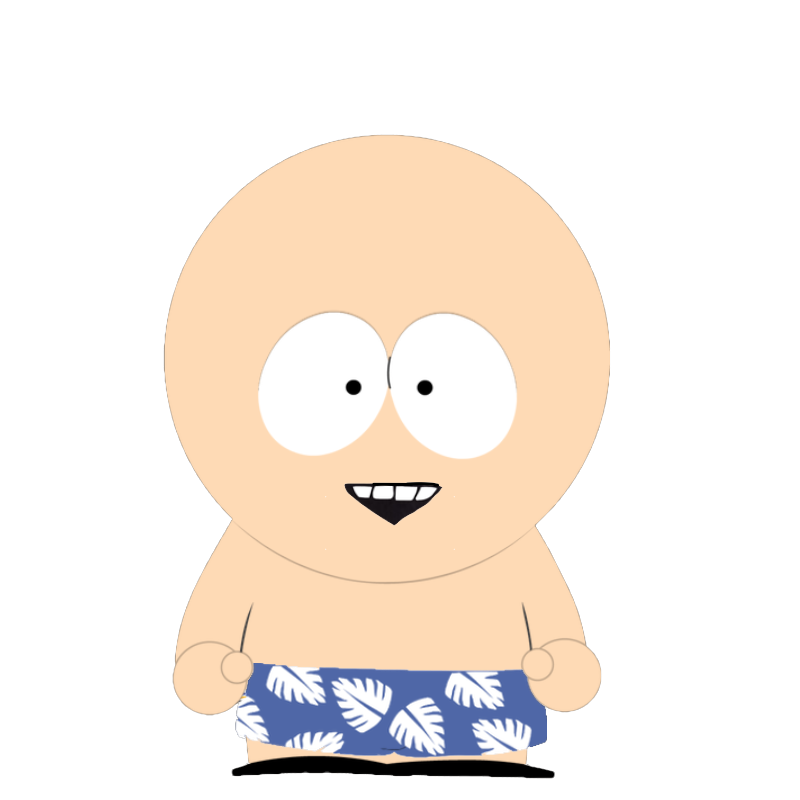
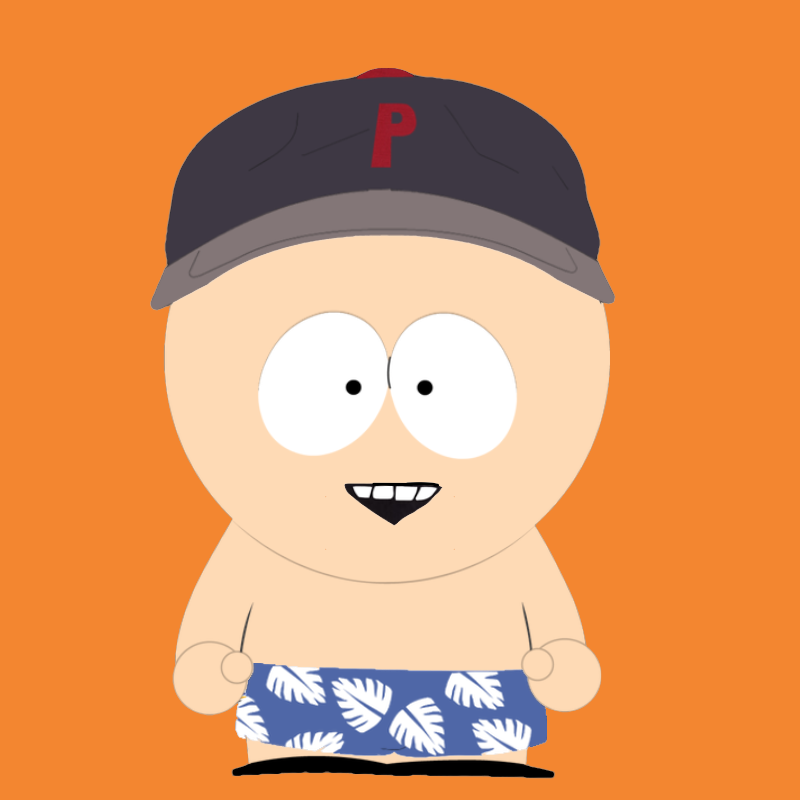
adding bgs

diff --git a/create-avatar.py b/create-avatar.py
@@ -4,6 +4,15 @@ import random
 
 from PIL import Image
 
+bg_colors = [
+	(105,210,231,255),
+	(167,219,216,255),
+	(224,228,204,255),
+	(243,134,48,255),
+	(250,105,0,255),
+]
+
+base = Image.open("images/base.png")
 
 mouth_list = [
 	"images/mouth-smile.png",
@@ -38,20 +47,24 @@ parser.add_argument("--preview", help="do you want the preview?",
 args = parser.parse_args()
 
 for i in range(0, args.integers):
-	background = Image.open("images/base.png")
-	mouth_chosen = random.randint(0, len(mouth_list) - 1)
-	hat_chosen = random.randint(0, len(hat_list) - 1)
-	bottom_chosen = random.randint(0, len(bottom_list) - 1)
+	mouth_index = random.randint(0, len(mouth_list) - 1)
+	hat_index = random.randint(0, len(hat_list) - 1)
+	bottom_index = random.randint(0, len(bottom_list) - 1)
+	bg_index = random.randint(0, len(bg_colors) - 1)
 
-	mouth = Image.open(mouth_list[mouth_chosen])
+	background = Image.new('RGBA', (800,800), bg_colors[bg_index])
+
+	background.paste(base , (0,0), base)
+
+	mouth = Image.open(mouth_list[mouth_index])
 	background.paste(mouth, (0, 0), mouth)
 
-	if hat_chosen != 0:
-		hat = Image.open(hat_list[hat_chosen])
+	if hat_index != 0:
+		hat = Image.open(hat_list[hat_index])
 		background.paste(hat, (0, 0), hat)
 
-	if bottom_chosen != 0:
-		bottom = Image.open(bottom_list[bottom_chosen])
+	if bottom_index != 0:
+		bottom = Image.open(bottom_list[bottom_index])
 		background.paste(bottom, (0, 0), bottom)
 	
 	if args.preview:
